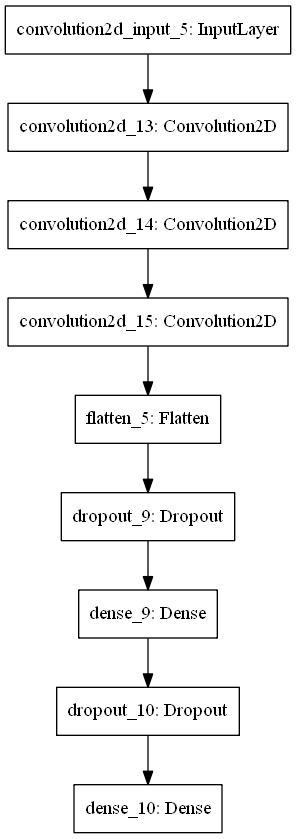
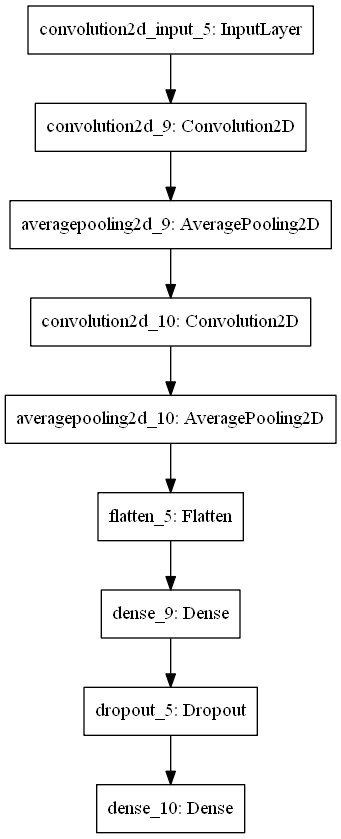
Add two types of nn training and test: car level and day level

diff --git a/classifier/cnn_kera_py35.py b/classifier/cnn_kera_py35.py
@@ -4,7 +4,8 @@ from keras.models import Sequential
 from keras.layers import Dense, Dropout, Flatten
 from keras.layers import Convolution2D, AveragePooling2D, MaxPooling2D
 from keras.utils.visualize_util import plot
-from sklearn.model_selection import train_test_split
+from keras.callbacks import TensorBoard, EarlyStopping
+from sklearn.model_selection import train_test_split, KFold
 from residual_blocks import building_residual_block
 
 
@@ -14,13 +15,13 @@ def basicModel():
     conv 5*5*5 + averagepooling 2*2 + conv 5*5*15 + averagepooling 3*3 + flatten + dense 30 + softmax
     """
     our_model = Sequential()
-    our_model.add(Convolution2D(5, 5, 5, activation='relu', input_shape=(24, 24, 1)))
+    our_model.add(Convolution2D(5, 5, 5, activation='relu', input_shape=INPUT_SHAPE))
     our_model.add(AveragePooling2D(pool_size=(2, 2)))
     our_model.add(Convolution2D(15, 5, 5, activation='relu'))
     our_model.add(AveragePooling2D(pool_size=(3, 3)))
     our_model.add(Flatten())
     our_model.add(Dense(30, activation='relu'))
-    our_model.add(Dropout(0.25))
+    our_model.add(Dropout(0.3))
     our_model.add(Dense(2, activation='softmax'))
     our_model.compile(loss='categorical_crossentropy',
                       optimizer='adam', metrics=['accuracy'])
@@ -34,14 +35,14 @@ def CnnModel():
     conv 4*4*6 + maxpooling 2*2 + conv 4*4*12 + maxpooling 2*2 + flatten + dense 30 + softmax
     """
     our_model = Sequential()
-    our_model.add(Convolution2D(6, 4, 4, activation='relu', input_shape=(24, 24, 1)))
+    our_model.add(Convolution2D(6, 4, 4, activation='relu', input_shape=INPUT_SHAPE))
     our_model.add(MaxPooling2D(pool_size=(2, 2)))
     our_model.add(Convolution2D(12, 4, 4, activation='relu'))
     our_model.add(MaxPooling2D(pool_size=(2, 2)))
     our_model.add(Flatten())
-    our_model.add(Dropout(0.25))
-    our_model.add(Dense(30, activation='relu'))
-    our_model.add(Dropout(0.25))
+    # our_model.add(Dropout(0.25))
+    # our_model.add(Dense(30, activation='relu'))
+    our_model.add(Dropout(0.4))
     our_model.add(Dense(2, activation='softmax'))
     our_model.compile(loss='categorical_crossentropy',
                       optimizer='adam', metrics=['accuracy'])
@@ -49,25 +50,25 @@ def CnnModel():
     return our_model
 
 
-def ResModel():
+def ResModel(n_channels=6):
     """
     residual model structure:
     input +
-    conv 3*3*6 + conv 3*3*6] * num_res_blocks +
+    [conv 3*3*n_channels + conv 3*3*n_channels] * num_res_blocks +
     flatten +
     softmax
     """
     our_model = Sequential()
-    num_res_clocks = 4
+    num_res_clocks = 3
     kernel_size = (3, 3)
-    n_channels = 6
     # build first layer
-    our_model.add(building_residual_block((24, 24, 1), n_channels, kernel_size))
-    print(our_model.output_shape)
+    our_model.add(building_residual_block(INPUT_SHAPE, n_channels, kernel_size))
     for i in range(num_res_clocks - 1):
-        our_model.add(building_residual_block((24, 24, n_channels), n_channels, kernel_size))
+        our_model.add(building_residual_block((INPUT_SHAPE[0], INPUT_SHAPE[1], n_channels), n_channels, kernel_size))
     our_model.add(Flatten())
-    our_model.add(Dropout(0.5))
+    our_model.add(Dropout(0.2))
+    # our_model.add(Dense(20, activation='relu'))
+    # our_model.add(Dropout(0.25))
     our_model.add(Dense(2, activation='softmax'))
     our_model.compile(loss='categorical_crossentropy',
                       optimizer='adam', metrics=['accuracy'])
@@ -75,7 +76,7 @@ def ResModel():
     return our_model
 
 
-def construct_X_Y(evaluation_data):
+def construct_X_Y_day_level(evaluation_data):
     X_data = []
     Y_data = []
     cnt = 0
@@ -90,22 +91,103 @@ def construct_X_Y(evaluation_data):
     return X_data, Y_data
 
 
-def train(X_train, Y_train, model, num_epoch):
-    model.fit(X_train, Y_train, batch_size=4,
-              nb_epoch=num_epoch, verbose=1)
+def construct_X_Y_car_level(evaluation_data):
+    # each car mostly has 8-day traces
+    X_data = []
+    Y_data = []
+    cnt = 0
+    for each in evaluation_data.keys():
+        dat = evaluation_data[each]
+        len_feature = len(dat['feature'])
+        if len_feature == 0:
+            continue
+        elif len_feature > 8:
+            len_feature = 8
+            print ("more than 8 day traces!")
+        elif len_feature < 8:  # use the existing day trace as the rest days
+            for i in range(8 - len_feature):
+                X_data.append(np.array(dat['feature'][i % len_feature]).flatten())
+        for i in range(len_feature):
+            d = dat['feature'][i]
+            X_data.append(np.array(d).flatten())
+        Y_data.append(np.array(dat['label']).flatten())
+        cnt += 1
+    X_data = np.array(X_data).reshape(cnt, 24, 24, 8)
+    Y_data = np.array(Y_data).reshape(cnt, 2)
+    return X_data, Y_data
 
 
-def test(X_test, Y_test, model):
+def test_car_level(X_test, Y_test, model):
     score = model.evaluate(X_test, Y_test, verbose=0)
-    print(score)
+    print(score[1])
+    return score[1]  # accuracy
+
+
+def test_day_level(test_data, model):
+    test_num = 0
+    test_hit = 0
+    for car_id in test_data.keys():
+        all_traces = test_data[car_id]['feature']
+        if len(all_traces) == 0:
+            continue
+        test_num += 1
+        Y_true = test_data[car_id]['label']
+        Y_predictions = np.zeros((len(all_traces), len(Y_true)))
+        X = []
+        for each_day_trace in all_traces:
+            X.append(np.array(each_day_trace).flatten())
+        X = np.array(X).reshape(len(all_traces), 24, 24, 1)
+        Y_predictions = model.predict(X)
+        Y_pred_probs = np.mean(Y_predictions, axis=0)
+        if np.argmax(Y_pred_probs) == np.argmax(Y_true):
+            test_hit += 1
+    acc = test_hit * 1.0 / test_num
+    print(acc)
+    return acc
 
 
 if __name__ == "__main__":
     np.random.seed(123)  # expect reproduction, but Keras@Tensorflow still has problems (Keras Issue#2280)
     data = loader.mapFile()
-    X_data, Y_data = construct_X_Y(data)
-    X_train, X_test, Y_train, Y_test = train_test_split(X_data, Y_data, test_size=0.4, random_state=123)
-    for i in range(10):
-        our_model = ResModel()
-        train(X_train, Y_train, our_model, 2)
-        test(X_test, Y_test, our_model)
+
+    N = 5
+    kf = KFold(n_splits=N)
+    eval_measures = np.zeros((N, 1))
+
+    car_level_input = False  # car_level or day_level
+    num_epoch = 10
+    num_batch = 1
+
+    if car_level_input:
+        # each car as an input
+        INPUT_SHAPE = (24, 24, 8)
+        X_data, Y_data = construct_X_Y_car_level(data)
+        # cross-validation
+        cnt = 0
+        for train_idx, test_idx in kf.split(X_data):
+            # our_model = ResModel(4)
+            # our_model = basicModel()
+            our_model = CnnModel()
+            X_train, X_test, Y_train, Y_test = X_data[train_idx], X_data[test_idx], Y_data[train_idx], Y_data[test_idx]
+            our_model.fit(X_train, Y_train, batch_size=num_batch,
+                          nb_epoch=num_epoch, verbose=1)
+            eval_measures[cnt, :] = test_car_level(X_test, Y_test, our_model)
+            cnt += 1
+        print ("average accuracy", np.mean(eval_measures, axis=0))
+
+    else:
+        # each car-day as an input
+        INPUT_SHAPE = (24, 24, 1)
+        all_car_ids = np.array(list(data.keys()))
+        cnt = 0
+        for train_idx, test_idx in kf.split(all_car_ids):
+            our_model = CnnModel()
+            train_car_ids, test_car_ids = all_car_ids[train_idx], all_car_ids[test_idx]
+            train_data = dict((k, v) for k, v in data.items() if k in train_car_ids)
+            test_data = dict((k, v) for k, v in data.items() if k in test_car_ids)
+            X_train, Y_train = construct_X_Y_day_level(train_data)
+            our_model.fit(X_train, Y_train, batch_size=num_batch,
+                          nb_epoch=num_epoch, verbose=1)
+            eval_measures[cnt, :] = test_day_level(test_data, our_model)
+            cnt += 1
+        print ("average accuracy", np.mean(eval_measures, axis=0))
